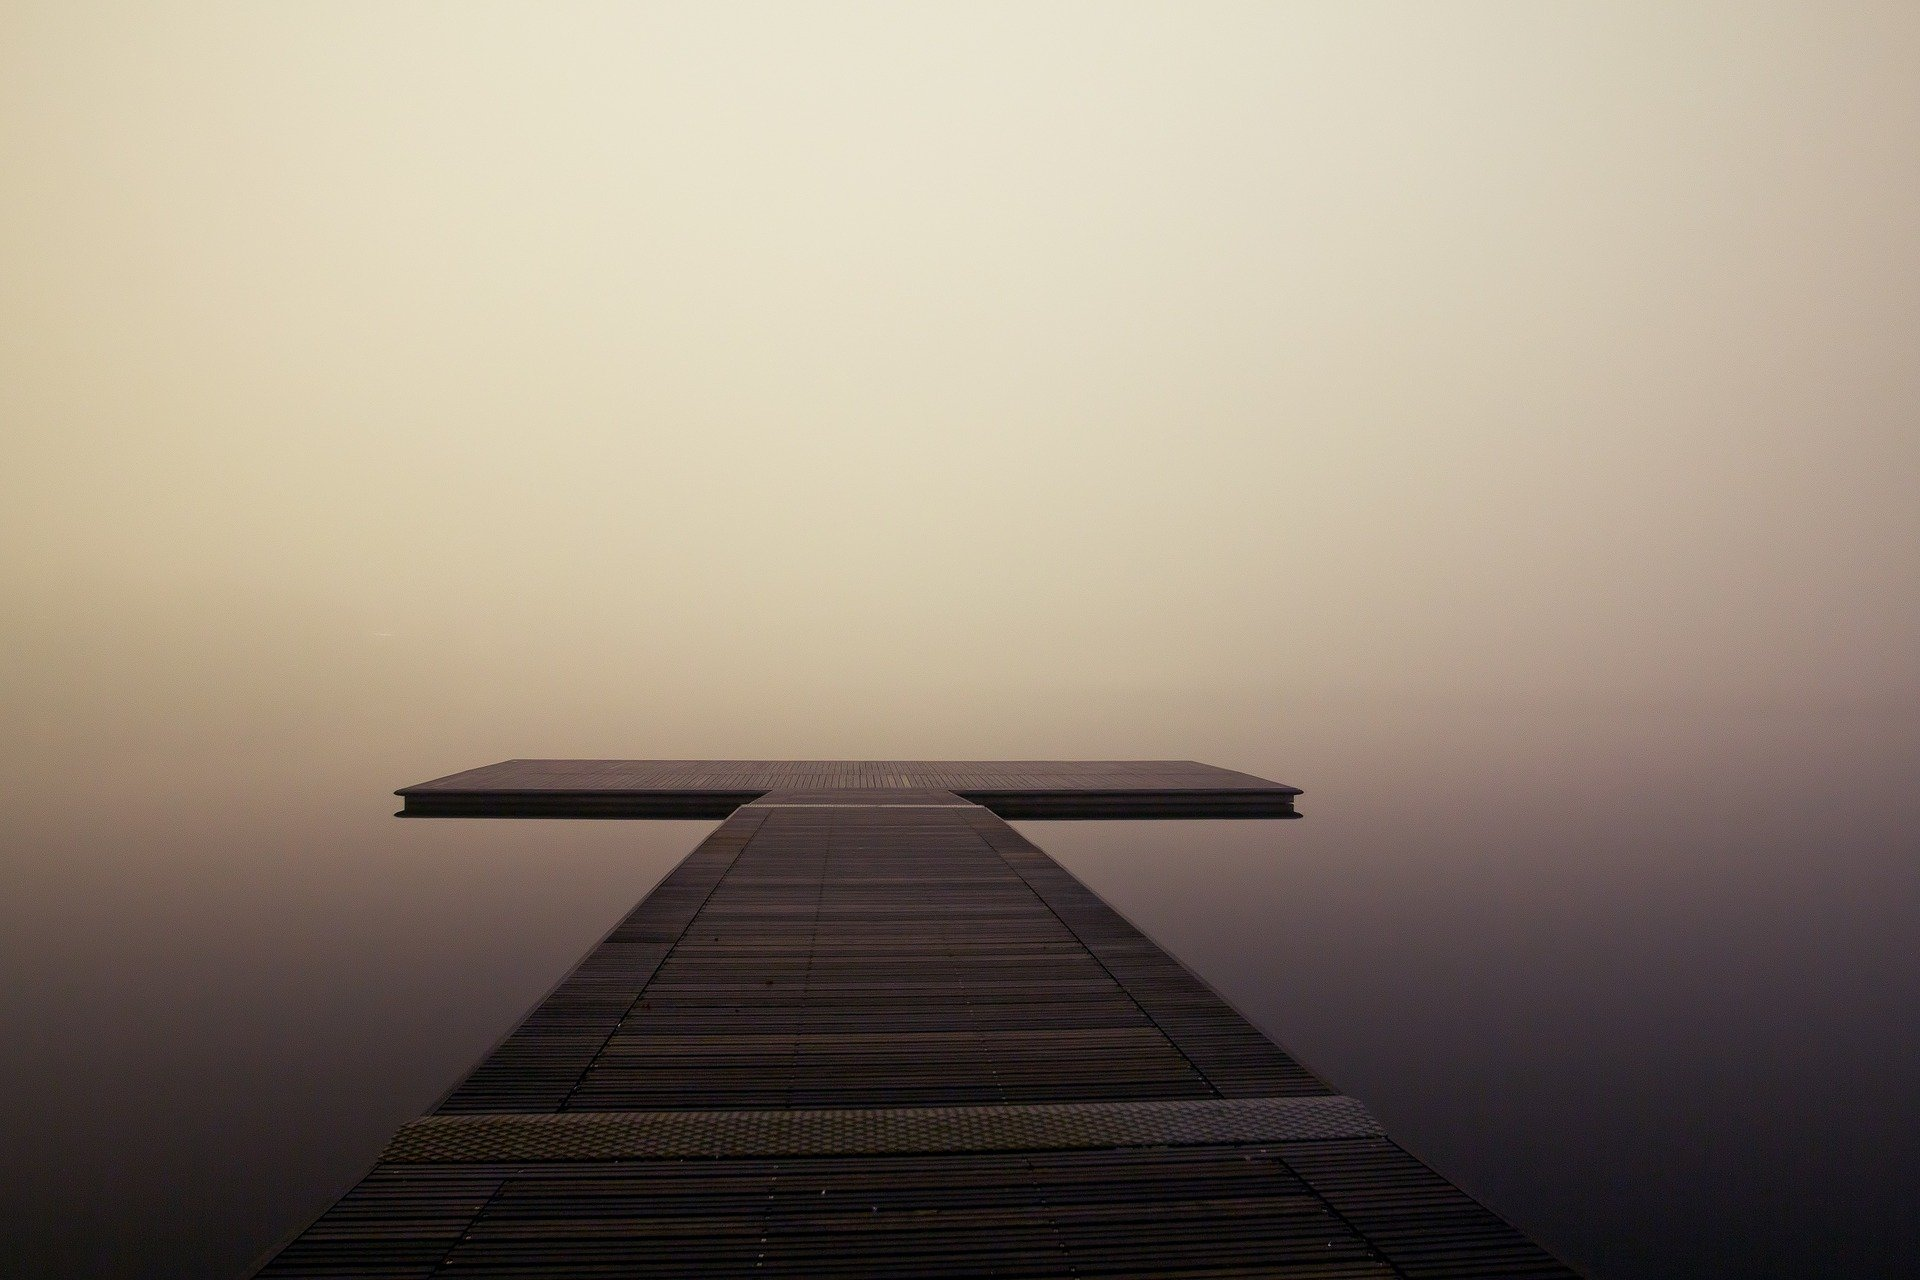
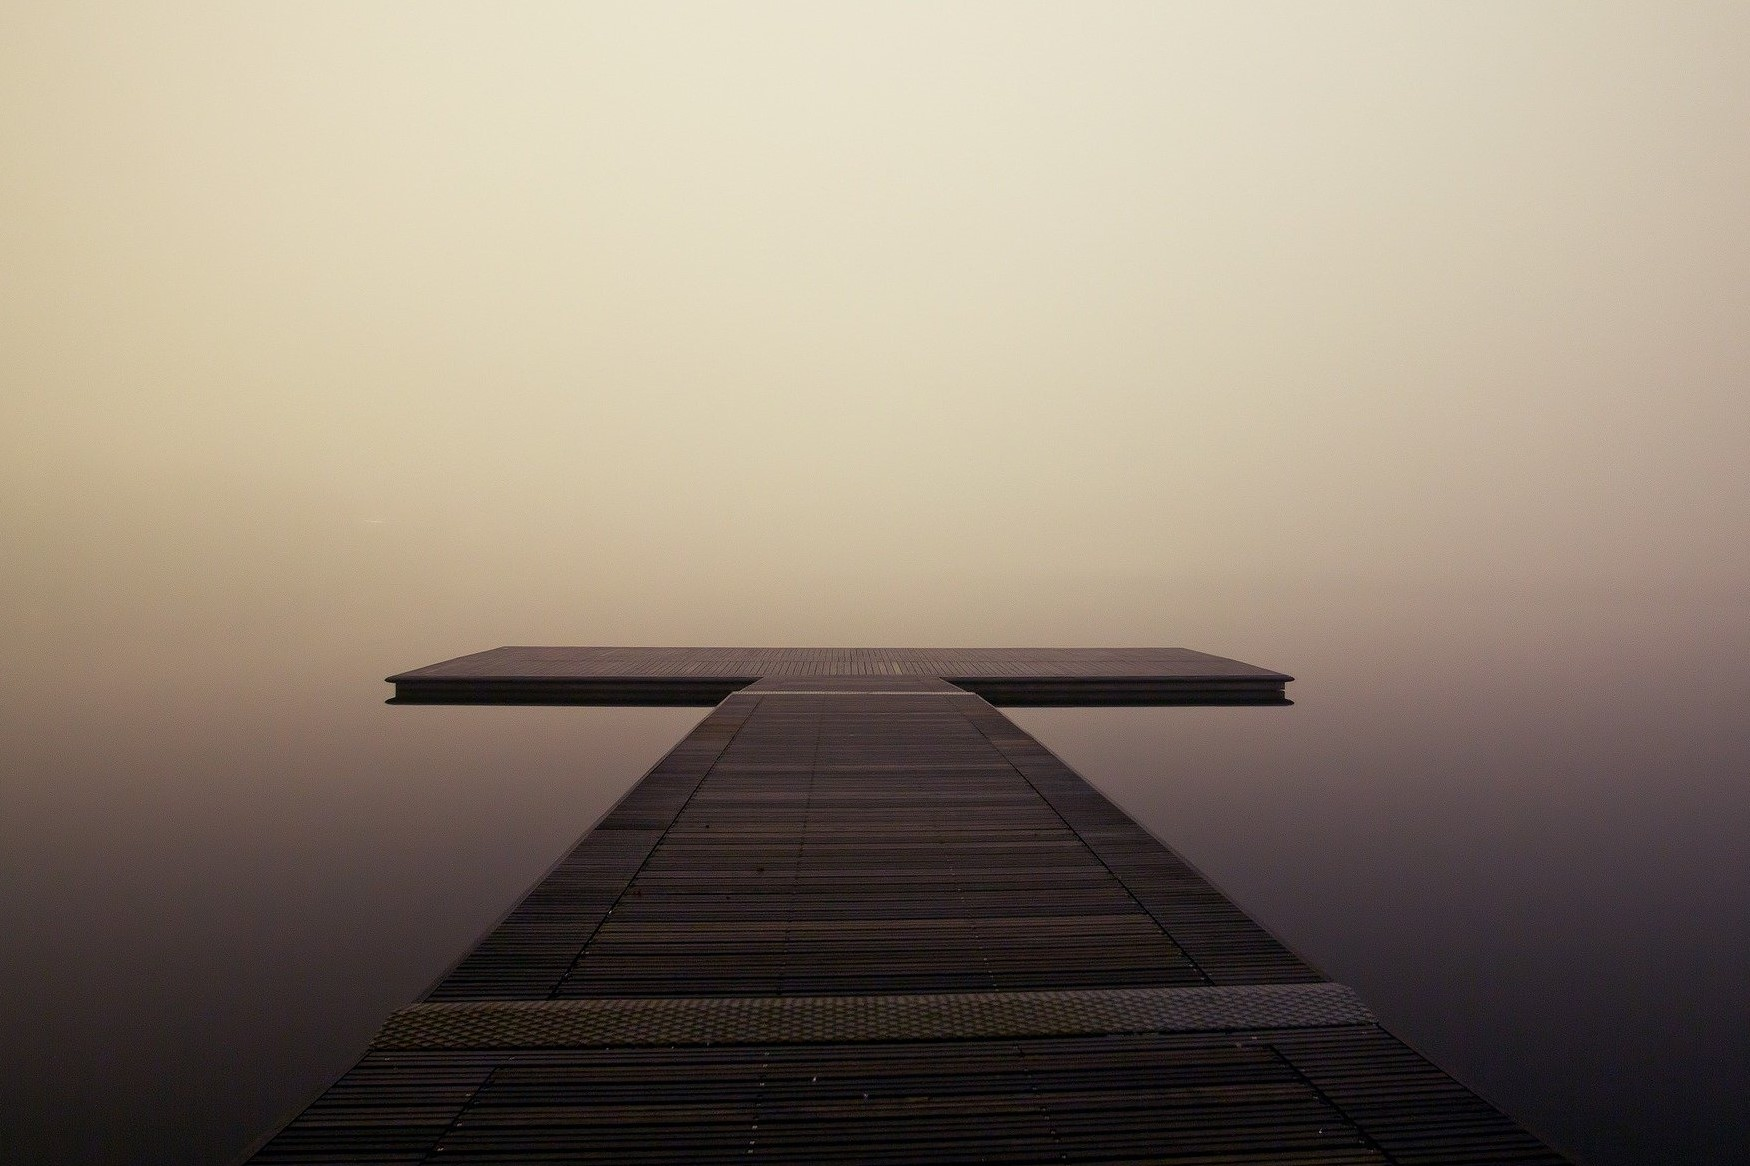
added CSS

Changed region(s): [[0.1543, 0.5249, 0.8331, 0.988], [0.5554, 0.988, 0.8023, 1.0], [0.1234, 0.6175, 0.1543, 0.6484]]

diff --git a/src/App.css b/src/App.css
@@ -1,7 +1,75 @@
+/*--polished-pine: #539d8b;
+--green-sheen: #7ca798;
+--ash-gray: #a4b1a5;
+--pale-silver: #cdbbb2;
+--languid-lavender: #d3c4d1;
+font-family: 'Voltaire', sans-serif;
+*/
 .App {
+  text-align: left;
+  padding: 1rem;
+  background: url(../src/images/pastel/pier.jpg) no-repeat center center fixed;
+  height: 100vh;
+  font-family: 'Lato', sans-serif;
+  font-size: 14px;
+
+}
+input[type=button] {
+  background-color: #A4B1A5;
+  font-family: 'Lato', sans-serif;
+  color: #152823;
+  font-size: 16px;
+  width: 6rem;
+  border-radius: 4%;
+  border: none;
+  height: 2rem;
+  margin: 2rem;
+  cursor: pointer;
+  box-shadow: 2px 3px #9C858F;
+}
+input[type=button]:hover {
+  background-color: #D3C4D1;
+}
+
+input[type=text] input[type=password]{
+  font-family: 'Lato', sans-serif;
+  font-size: 14px;
+  color: #152823;
+  border: none;
+  width: auto;
+  height: 2rem;
+}
+nav {
+  display: flex;
+  justify-content: space-evenly;
+}
+
+
+.icon-nav {
+  grid-column: 3/4;
+  grid-row: 2/3;
+  text-align: center;
+  height: 30px;
+  width: 30px;
+
+}
+#user-nav {
+  grid-column: 5/6;
+  grid-row: 2/3;
+  text-align: center;
+}
+#explore-nav {
+      grid-column: 7/8;
+      grid-row: 2/3;
+      text-align: center;
+}
+#camera-nav {
+  grid-column: 9/10;
+  grid-row: 2/3;
   text-align: center;
 }
 
+/*
 .App-logo {
   height: 40vmin;
   pointer-events: none;
@@ -35,4 +103,4 @@
   to {
     transform: rotate(360deg);
   }
-}
+}*/

diff --git a/src/App.js b/src/App.js
@@ -1,4 +1,4 @@
-import logo from './logos/Aurora-logos_white.png';
+import logo from './logos/Aurora-logos_black.png';
 import './App.css';
 import {
   Route,
@@ -7,19 +7,22 @@ import {
 } from "react-router-dom";
 import { HomeRoute } from './routes/home';
 import { TestRoute } from './routes/test';
+const homeIcon = require('./icons/home.svg');
+const exploreIcon = require('./icons/infinity.svg');
+const userIcon = require('./icons/user.svg');
+const cameraIcon = require('./icons/camera.svg');
+const searchIcon = require('./icons/search.svg');
 
 function App() {
   return (
     <div className="App">
       <nav>
-        <ul>
-          <li>
-            <Link to="/">Home</Link>
-          </li>
-          <li>
-            <Link to="/test">Test</Link>
-          </li>
-        </ul>
+        
+        <Link to="/"><img src={homeIcon.default} className='icon-nav'></img></Link>
+        <Link to="/test"><img src={exploreIcon.default} className='icon-nav'></img></Link>
+        <Link to="/"><img src={userIcon.default} className='icon-nav'></img></Link>
+        <Link to="/"><img src={cameraIcon.default} className='icon-nav'></img></Link>
+        <Link to="/"><img src={searchIcon.default} className='icon-nav'></img></Link>
       </nav>
 
       <Routes>
@@ -28,6 +31,8 @@ function App() {
       </Routes>
     </div>
   );
+
+
 }
 
 export default App;

diff --git a/src/components/sign-in/index.js b/src/components/sign-in/index.js
@@ -13,14 +13,14 @@ export function SignIn(props)
     const [password, setPassword] = useState();
 
     return <div className="signin-form">
-        <div>
-            <span>Username or email: </span>
+        <div className="userName">
+            <span className="label">Username or email: </span>
             <span>
                 <input type="text" onChange={e => setUsername(e.target.value)} />
             </span>
         </div>
-        <div>
-            <span>Password: </span>
+        <div className="password">
+            <span className="label">Password: </span>
             <span>
                 <input type="password" onChange={e => setPassword(e.target.value)} />
             </span>

diff --git a/src/routes/home/index.js b/src/routes/home/index.js
@@ -17,10 +17,10 @@ export function HomeRoute()
     }
 
     return <div className="home-route">
-        A
+
         {currentUser ? <div>Hej {currentUser}!</div> : null}
-        {currentUser ? <input type="button" value="Sign out" className="btn" onClick={() => setCurrentUser()} /> : <SignIn onAuthenticate={handleAuth} />}
-        B
+        {currentUser ? <input type="button" value="Sign out" onClick={() => setCurrentUser()} /> : <SignIn onAuthenticate={handleAuth} />}
+
 
     </div>
 }

diff --git a/src/routes/home/style.css b/src/routes/home/style.css
@@ -7,19 +7,12 @@ font-family: 'Voltaire', sans-serif;
 */
 .home-route
 {
-    background-color: #7ca798;
-    font-family: 'Lato', sans-serif;
-    font-size: 14px;
-    padding: auto;
-    
+    margin: 1rem;
+    padding: 3rem;
 
-
-}
-.btn {
-    color: blue;
-    font-family: 'Lato', sans-serif;
-    font-size: 20px;
-    width: 200px;
-    border-radius: 20%;
+    display: flex;
+    flex-direction: column;
+    align-items: center;
+    justify-content: space-between;
 
 }

diff --git a/src/components/sign-in/style.css b/src/components/sign-in/style.css
@@ -1,4 +1,22 @@
 .signin-form
-{
-    border: 1px solid red;
+{   display: flex;
+    flex-direction: column;
+    justify-content: center;
+    max-width: 50%;
+    padding: 1rem;
+    background-color: #CDBBB2;
+    opacity: 0.8;
+
+
+}
+.label {
+    color: #152823;
+    margin: 1rem;
+}
+.userName, .password {
+    color: #152823;
+    padding: 1rem;
+    /*display: flex;
+    justify-content: flex-start;
+    align-items: center;*/
 }
